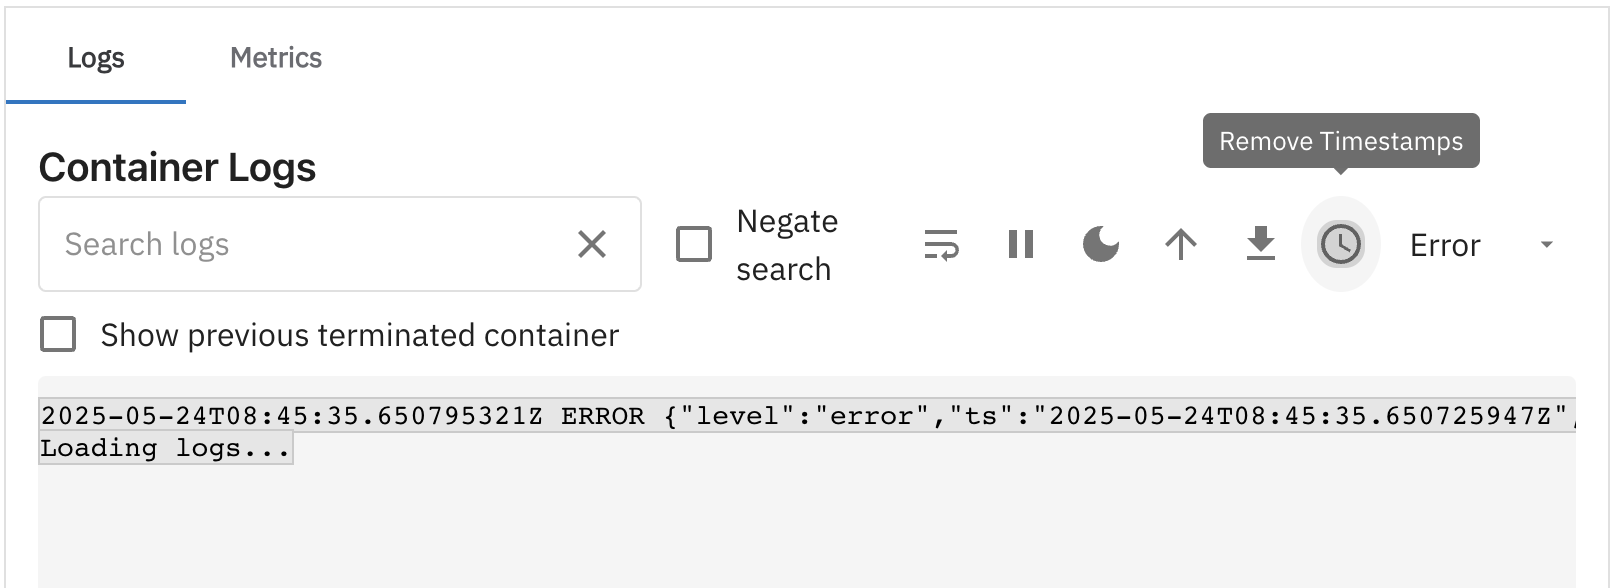
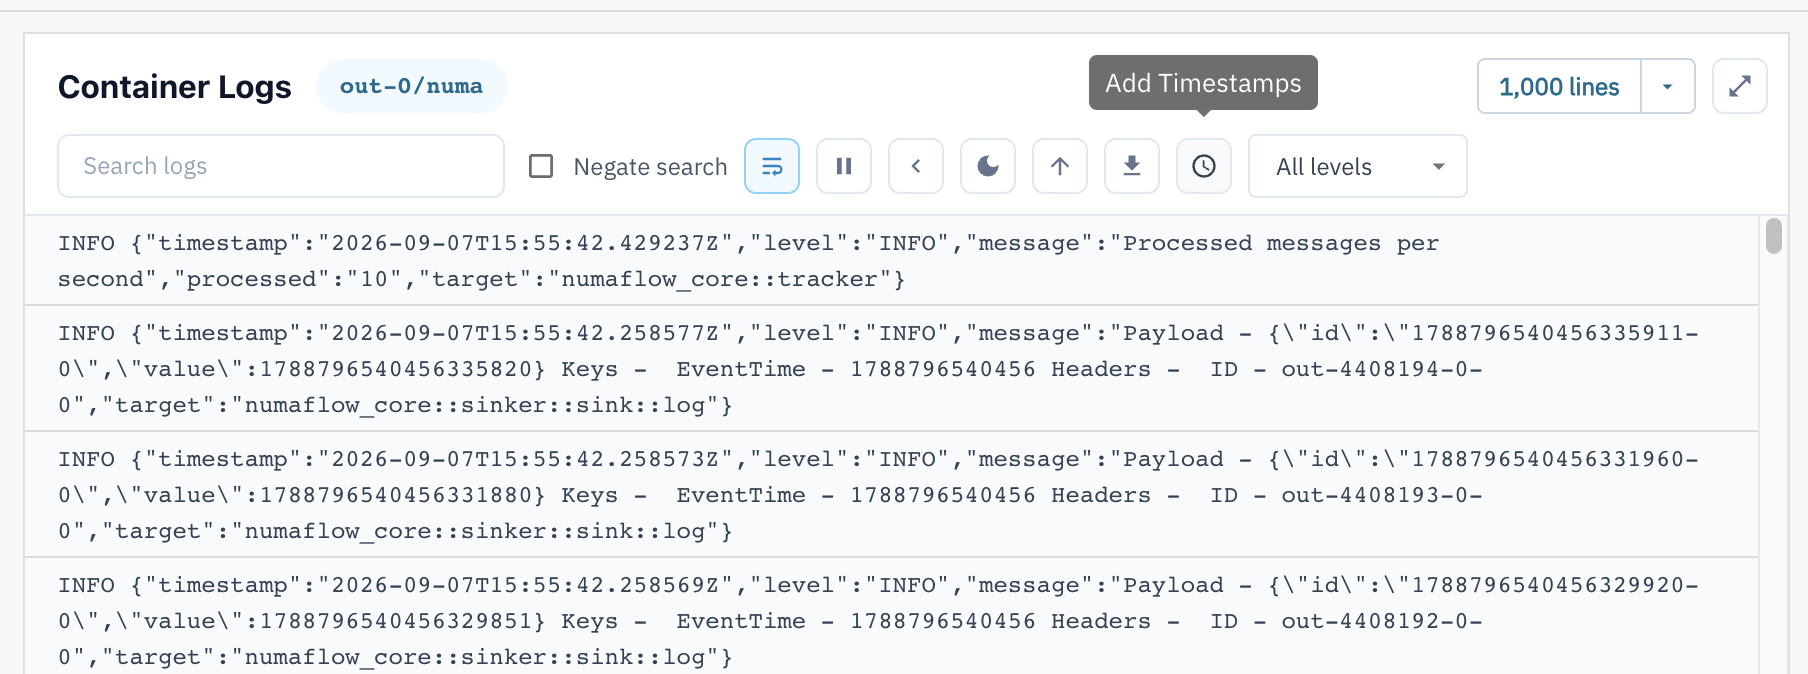
fix(docs): UI metrics, pods view and logs tab (#3634)

diff --git a/docs/user-guide/UI/logs.md b/docs/user-guide/UI/logs.md
@@ -1,111 +1,184 @@
 # Logs View
 
-The **Logs View** allows users to inspect the logs of a specific container within a pod of a vertex. This guide will walk you through the Logs tab and its various features.
+The **Logs View** lets you inspect container logs for a vertex pod directly in the **Pods View**. After you select a pod and container, the **Container Logs** panel on the right shows logs from that container.
 
 ---
 
-## Navigating to the Logs Tab
+## Navigating to Container Logs
+
+Navigate to the **Pods View** tab after selecting the vertex.
 
 **Select a Pod**
 
-Navigate to the `Pods View` tab after selecting the vertex and select a pod by name from the `Select a Pod by Name` dropdown.
+Select a pod by name from the **Select a pod by name** dropdown, or select a pod by resource using the CPU/Memory heat map.
 
 ![Select Pod](../../assets/logs/select-pod.png)
 
 **Select a Container**
 
-Choose a container from the `Select a Container` section.
+Choose a container from the **Select a container** section.
 
 ![Select Container](../../assets/logs/select-container.png)
 
 **View Logs**
 
-Open the **Logs Tab** on the right to view the container logs.
+The **Container Logs** panel appears on the right. The header shows the title **Container Logs** and a badge with the short pod/container name (for example, `out-0/numa`). Hover the badge to see the full pod and container name.
 
-![Logs View](../../assets/logs/logs-tab.png)
+![Pods View with Container Logs](../../assets/logs/pods-view-logs-overview.png)
+
+While logs are shown, you can still use the left sidebar to review **Container Info** and **Pod Info** (status, CPU, memory, restart count, and related details).
+
+---
+
+## Toolbar overview
+
+The logs toolbar is grouped into:
+
+- **Header (top row):** title, source badge, optional status banner, tail/window size, and focus (expand) control.
+- **Controls (second row):** search, match navigation, negate search, wrap, pause, previous container, theme, sort order, download, timestamps, and level filter.
+
+Status banners appear in the header when applicable:
+
+- **Logs paused** — new log lines are not being added.
+- **Previous container** — you are viewing logs from the previous terminated container instance.
 
 ---
 
 ## Features
 
-### 1. Previous Terminated Container Logs
+### 1. Log window size (tail lines)
 
-- Enable the checkbox to view logs from previously terminated containers.
-- This is particularly useful for debugging issues.
+Use the **N lines** dropdown in the top-right (default: **1,000 lines**) to choose how many recent log lines to show:
 
----
+- 500 lines
+- 1,000 lines
+- 2,000 lines
+- 5,000 lines
+- 10,000 lines
 
-### 2. Search Logs
+While logs are updating live, changing the window size **pauses** updates and shows that many recent lines. A **Logs paused** banner appears until you resume.
 
-- Filter logs by typing keywords in the **Search Logs** box.
-- Use the match count and next/previous controls to move between matching log lines. Press `Enter` for the next match or `Shift+Enter` for the previous match.
+![Log window size](../../assets/logs/logs-tail-size.png)
 
-![Search Logs](../../assets/logs/logs-search.png)
-
----
-
-### 3. Negate Search
-
-- Enable the **Negate Search** option to exclude logs matching the search keywords from the view.
-
-![Negate Search](../../assets/logs/logs-negate-search.png)
+![Log window size options](../../assets/logs/logs-tail-size-menu.png)
 
 ---
 
-### 4. Wrap Lines
+### 2. Focus view (expanded logs)
 
-- Use the **Wrap Lines** feature to avoid horizontal scrolling for long log lines, improving readability.
+Click the **expand** icon in the header to open a larger focused log view. In focus mode:
 
-![Wrap Lines](../../assets/logs/logs-wrap.png)
+- **Pod** and **Container** selectors appear at the top of the dialog so you can switch context without closing focus mode.
+- All log toolbar controls remain available.
 
----
+While focus mode is open, the inline panel shows **Logs are open in the focused view**.
 
-### 5. Pause Logs
+Click **Exit focus** (or the collapse icon) to return to the inline panel.
 
-- Pause the log stream to inspect logs when there is a high volume of data.
-
-![Pause Logs](../../assets/logs/logs-pause.png)
-
----
-
-### 6. Dark Mode
-
-- Toggle between **Dark Mode** and **Light Mode** for better visibility based on your preference.
-
-![Dark Mode](../../assets/logs/logs-dark-mode.png)
+![Focus view](../../assets/logs/logs-focus-view.png)
 
 ---
 
-### 7. Ascending/Descending Order
+### 3. Search logs
 
-- Switch between ascending and descending order of log timestamps for easier navigation.
+Type keywords in **Search logs** to filter the lines currently shown. Matching text is highlighted. When matches exist, a counter (for example, `1 / 3`) appears with **previous** and **next** controls.
 
-![Ascending Order](../../assets/logs/logs-ascending.png)
+Keyboard shortcuts:
 
----
+- `Enter` — next match
+- `Shift+Enter` — previous match
 
-### 8. Download Logs
+Use the clear (`×`) control to reset the search.
 
-- Download the last 1000 logs for offline analysis.
-
----
-
-### 9. Add/Remove Timestamps
-
-- Toggle timestamps in the logs based on your requirements.
-
-![Add Timestamps](../../assets/logs/logs-add-timestamps.png)
+![Search logs](../../assets/logs/logs-search.png)
 
 ---
 
-### 10. Level-Based Filtering
+### 4. Negate search
 
-- Filter logs by log levels such as:
-    - **Info**
-    - **Error**
-    - **Warn**
-    - **Debug**
+Enable **Negate search** to hide lines that match your search term and show only non-matching lines. Useful for filtering out noisy messages (for example, excluding lines containing `pending`).
 
-![Error Filter](../../assets/logs/logs-filter-error.png)
+![Negate search](../../assets/logs/logs-negate-search.png)
 
 ---
+
+### 5. Wrap lines
+
+Toggle **Wrap lines** to wrap long log lines instead of horizontal scrolling. Wrap is enabled by default. When wrap is off, the button shows **Unwrap lines** and long entries display on a single line with horizontal scrolling.
+
+![Wrap lines](../../assets/logs/logs-wrap.png)
+
+---
+
+### 6. Pause and resume
+
+Click **Pause logs** to stop new lines from appearing while you inspect what is on screen. Click **Play logs** to resume. Resuming resets the window to the default **1,000 lines**.
+
+![Pause logs](../../assets/logs/logs-pause.png)
+
+---
+
+### 7. Previous terminated container logs
+
+Click the **back** (`<`) toolbar button to view logs from the **previous terminated** container instance. This helps debug crashes and restarts.
+
+While in this mode, a **Previous container** banner appears in the header. Click the button again to return to the current container's logs.
+
+![Previous container logs](../../assets/logs/logs-previous-container.png)
+
+---
+
+### 8. Dark mode
+
+Toggle **Dark mode** / **Light mode** for readability.
+
+![Dark mode](../../assets/logs/logs-dark-mode.png)
+
+---
+
+### 9. Sort order
+
+Logs default to **descending** order (newest first). Toggle between **ascending** and **descending** timestamp order. The active button tooltip shows the current mode (for example, **Ascending order**).
+
+![Sort order](../../assets/logs/logs-ascending.png)
+
+---
+
+### 10. Download logs
+
+Click **Download logs** to save the logs as a `.txt` file named `{podName}-{containerName}-logs.txt`.
+
+![Download logs](../../assets/logs/logs-download.png)
+
+---
+
+### 11. Timestamps
+
+Toggle **Add timestamps** / **Remove timestamps** on log lines. This control is disabled while logs are paused.
+
+![Add timestamps](../../assets/logs/logs-add-timestamps.png)
+
+---
+
+### 12. Level-based filtering
+
+Filter by log level using the level dropdown:
+
+- All levels
+- Info
+- Error
+- Warn
+- Debug
+
+Level filtering is disabled while logs are paused.
+
+![Level filter](../../assets/logs/logs-level-filter.png)
+
+---
+
+## Tips
+
+- Use **pause** before downloading if you want a stable snapshot of what is on screen.
+- Combine **search** and **negate search** to narrow down noisy output.
+- For crash debugging, switch to **previous terminated container logs** after a restart.
+- Use **focus view** when reviewing long JSON or stack traces.

diff --git a/docs/user-guide/UI/pods-view.md b/docs/user-guide/UI/pods-view.md
@@ -2,6 +2,10 @@
 
 The **Pods View** in the Numaflow UI provides a comprehensive overview of the pods associated with a vertex. This view is designed to help users monitor the status, resource usage, and other key details of the pods in their application. It also allows users to perform actions such as filtering and inspecting individual pods.
 
+Open a pipeline vertex or MonoVertex to see the vertex details panel. **Pods View** is the first tab. The **[Metrics](./metrics-tab.md)** tab is directly next to it in the same tab bar (**Pods View** | **Metrics** | **Spec** | **Processing Rates** | **K8s Events** | **Errors**).
+
+![Vertex tabs with Pods View and Metrics](../../assets/metrics/mono-vertex-tabs-pods-view.png)
+
 ---
 
 ## Features of the Pods View
@@ -78,7 +82,8 @@ Provides detailed information about the selected pod, including:
 
 ### 7. Metrics Tab
 
-- The **Pods View** includes a **Metrics Tab** located next to the Logs Tab.
-- For a detailed discussion about the Metrics Tab, refer to the [Metrics](./metrics-tab.md) section.
+- The **[Metrics](./metrics-tab.md)** tab sits next to **Pods View** in the vertex details panel.
+- Switch to **Metrics** to view Prometheus charts for the selected vertex or MonoVertex.
+- For details, refer to the [Metrics Tab](./metrics-tab.md) guide.
 
 ---

diff --git a/docs/user-guide/UI/metrics-tab.md b/docs/user-guide/UI/metrics-tab.md
@@ -210,9 +210,11 @@ This example demonstrates how the configuration translates into actionable PromQ
 
 ## How the Metrics Tab Appears in the UI
 
-The **Metrics Tab** is located next to the [Logs Tab](./logs.md) in the [Pods View](./pods-view.md).
+The **Metrics Tab** is located next to **Pods View** in the vertex details panel.
 
-![Metrics Tab](../../assets/metrics/metrics-tab.png)
+![Vertex tabs with Metrics](../../assets/metrics/mono-vertex-tabs-pods-view.png)
+
+![MonoVertex Pending Messages](../../assets/metrics/metrics-pending-messages-chart.png)
 
 The following screenshots illustrate how the UI translates the discussed configuration into a visual representation:
 
